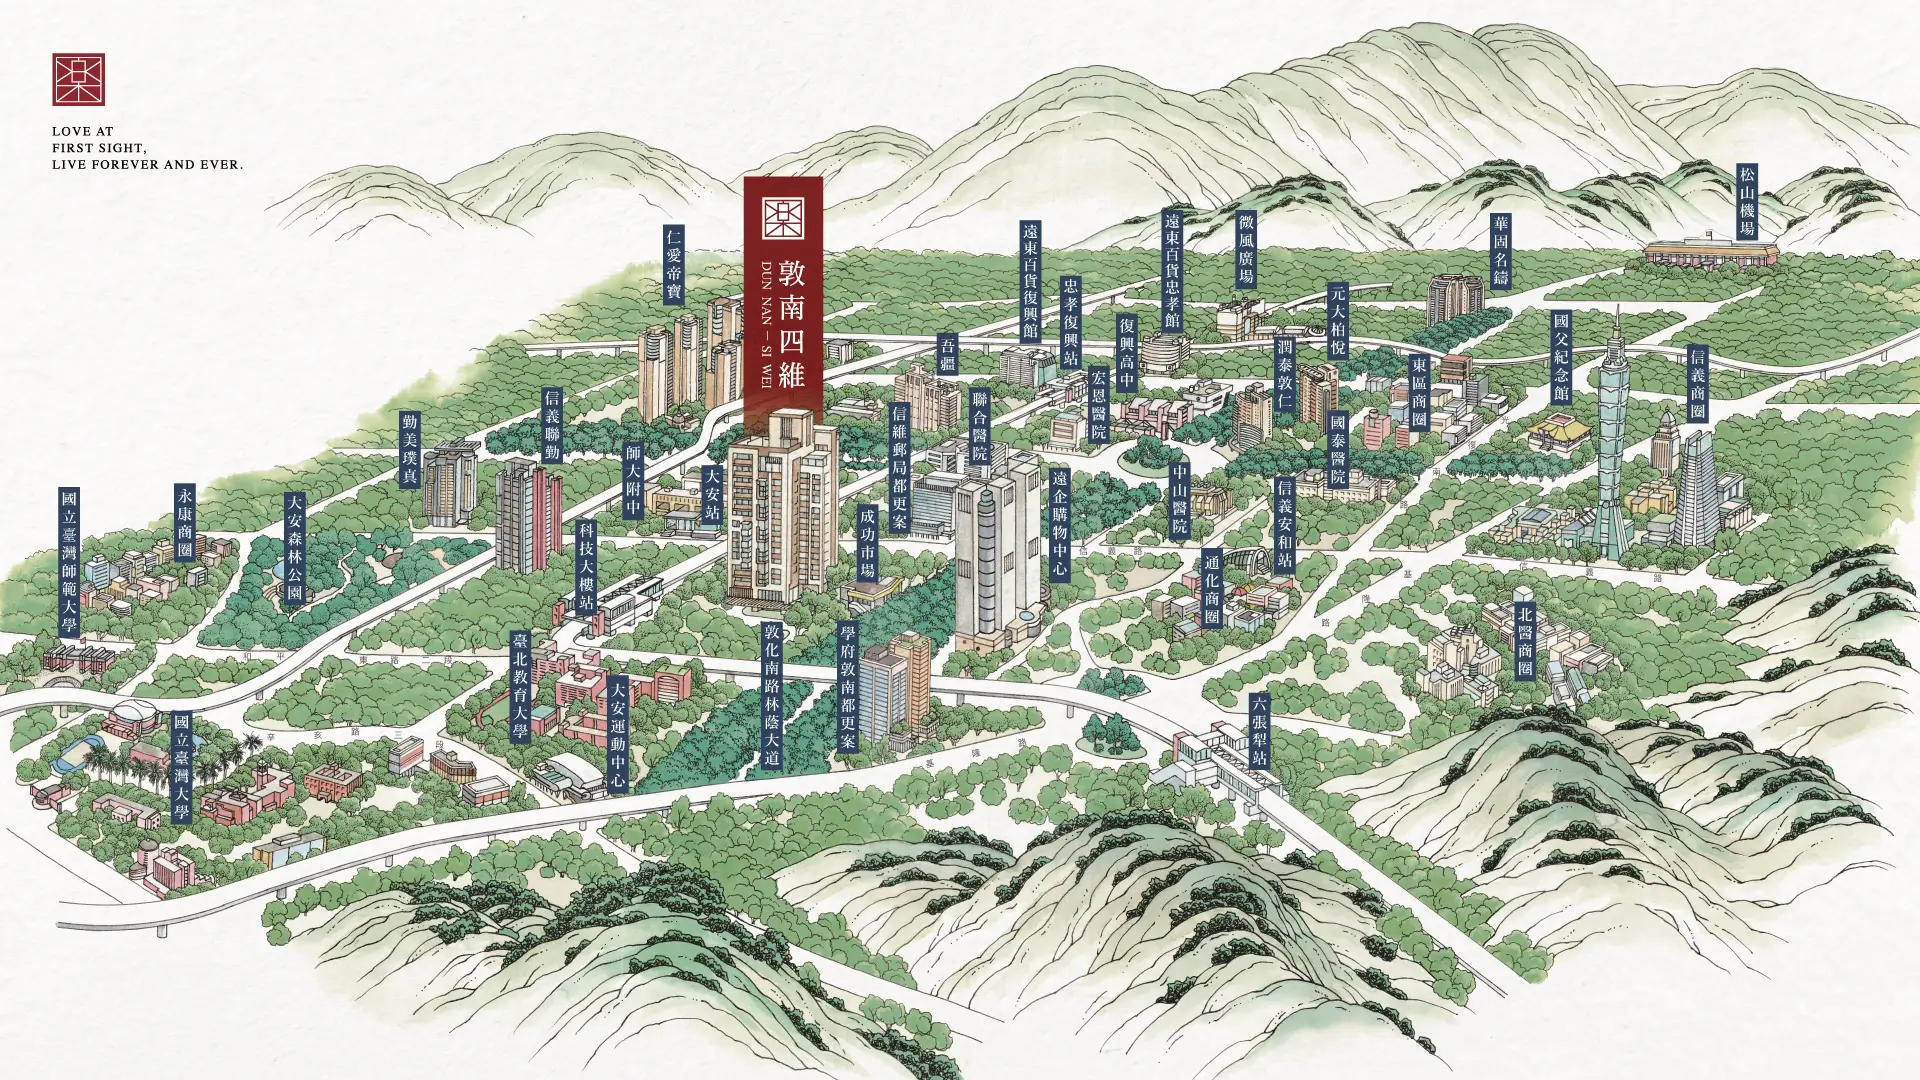
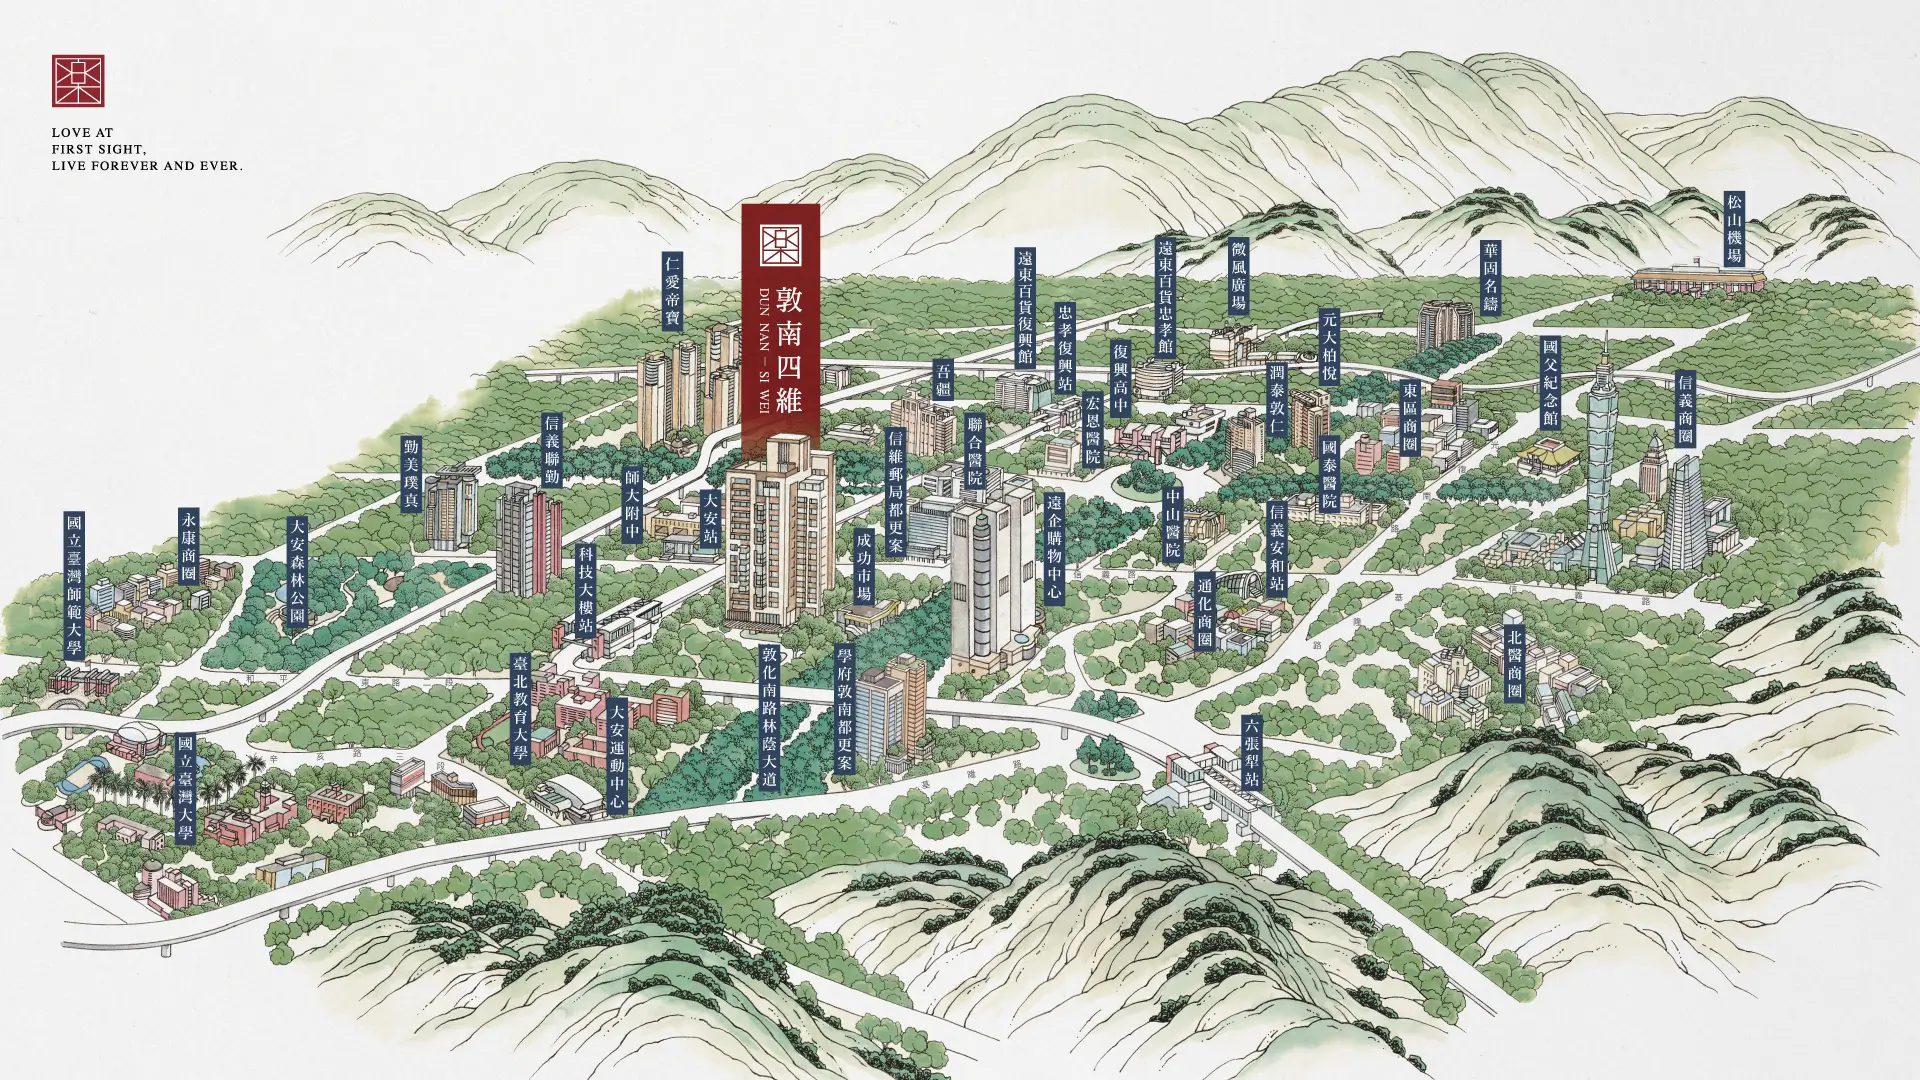
修改

diff --git a/src/components/fullview.vue b/src/components/fullview.vue
@@ -92,7 +92,7 @@ import { onMounted, ref } from "vue"
 const viewbox = ref()
 const viewImg = ref()
 const swiped = ref(false)
-const offsetRatio = 2 //調整此值設定X軸位置偏移參數
+const offsetRatio = 2.8 //調整此值設定X軸位置偏移參數
 
 onMounted(() => {
   viewImg.value.addEventListener("load", () => {
